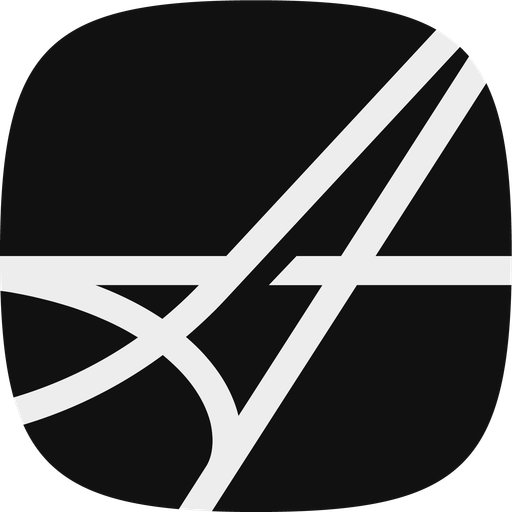
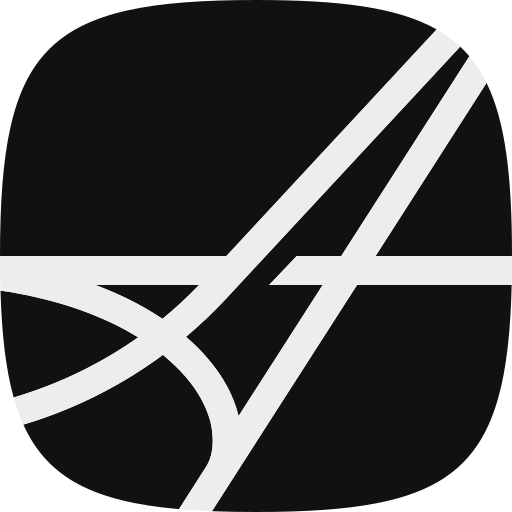
Карточки магазина блоком, новая аватарка, фавиконы-сквирклы
- карточка товара целиком ссылка с подсветкой, «Купить» работает поверх
- аватарка из «logo-avatar RGB.pdf», вписана в круг
- фавиконы из «logo-favicon-small.svg»: SVG, ico, PNG, Apple и Android

diff --git a/src/components/AvatarLogo.tsx b/src/components/AvatarLogo.tsx
@@ -1,6 +1,7 @@
-// Round Atrial avatar: #111111 disc, #ededed wordmark, yellow tittle over «i».
-// Positions come from «Atrial-logo-avatar RGB.pdf»; the same picture is saved
-// as src/images/atrial-avatar.svg.
+// Round Atrial avatar: #111111 disc, #ededed wordmark, #ffcc00 tittle over «i».
+// From «logo-avatar RGB.pdf»: the square background is replaced with the circle
+// inscribed in it, so the logo keeps its centring. Also saved as
+// src/images/atrial-avatar.svg.
 export function AvatarLogo({ className }: { className?: string }) {
   return (
     <svg
@@ -12,13 +13,15 @@ export function AvatarLogo({ className }: { className?: string }) {
       <circle cx="512" cy="512" r="512" fill="#111111" />
       <path
         fill="#ededed"
-        fillRule="evenodd"
-        d="M762.049 556.736L711.909 556.726C702.149 556.726 692.921 557.792 684.476 559.893L687.813 572.996C695.308 571.598 705.173 570.685 713.796 570.685L736.49 570.685L730.969 579.27L706.426 579.27C693.778 579.27 684.516 580.712 676.188 586.988C672.256 589.954 668.875 593.613 666.136 597.866L662.828 603.009L619.185 603.009C616.693 603.009 615.508 601.308 615.115 600.575C614.719 599.842 613.951 597.921 615.323 595.837L640.484 556.736L623.88 556.736L603.662 588.16C600.737 592.603 599.9 597.996 601.193 603.009L531.507 603.009C526.773 603.009 524.727 598.71 523.851 595.45C538.001 591.591 552.316 585.301 562.365 569.145L570.087 556.736L507.98 556.736C500.106 556.736 492.405 560.536 487.879 566.658L464.525 603.009L427.188 603.009C412.386 603.009 415.081 594.934 416.488 592.825L450.393 540.134L617.96 540.134L626.941 526.176L459.374 526.176L477.618 497.824L461.014 497.824L442.772 526.176L393.374 526.176L508.182 347.105L487.658 347.105L321.437 526.183L233.44 526.183L215.678 543.37C240.244 547.36 261.926 554.903 278.935 565.423C244.719 589.509 203.501 602.837 161.127 602.837L154.218 602.837L139.826 616.762L161.127 616.762C208.02 616.762 253.555 601.435 290.856 573.925C294.927 577.274 298.632 580.823 301.865 584.597C310.972 595.231 315.447 606.609 314.778 616.968L335.165 616.968L384.425 540.134L433.791 540.134L404.858 585.101C404.046 586.285 397.082 596.941 402.127 606.515C405.784 613.451 414.216 616.966 427.188 616.966L474.098 616.966L479.475 611.585C487.458 604.076 498.501 601.347 510.28 598.691C512.48 606.952 518.523 616.966 531.507 616.966L875.24 616.966L884.174 603.009L809.849 603.009C807.357 603.009 806.172 601.308 805.778 600.575C805.384 599.842 804.617 597.921 806.161 595.561L868.713 497.824L852.148 497.824L794.33 588.16C791.403 592.6 790.565 597.995 791.857 603.009L729.259 603.009C732.715 600.618 735.552 597.934 737.47 594.956L749.13 576.825ZM508.864 584.696C520.632 582.054 531.944 579.528 541.014 572.446C541.792 571.859 542.531 571.262 543.16 570.693L507.98 570.693C504.691 570.693 501.269 572.277 499.335 574.664L489.565 589.894C495.429 587.913 502.887 586.037 508.864 584.696M805.966 526.176L676.752 526.176L667.77 540.134L797.032 540.134ZM692.316 603.009C705.622 603.009 715.778 599.128 722.603 591.487L707.796 591.487C698.25 591.487 690.445 593.725 684.594 598.134C682.752 599.525 681.094 601.165 679.625 603.009L692.316 603.009M458.077 399.45L321.159 546.96C315.14 553.445 308.716 559.473 302.01 565.129C305.813 568.422 309.32 571.883 312.445 575.534C320.036 584.399 325.046 593.891 327.353 603.35L367.883 540.134L342.042 540.134L355.337 526.176L376.831 526.176ZM290.613 556.488C296.833 551.404 302.765 545.941 308.379 540.109L258.108 540.109C270.173 544.588 281.09 550.084 290.613 556.488"
+        d="M692.316 603.009L679.625 603.009C681.094 601.165 682.752 599.525 684.594 598.134C690.445 593.725 698.25 591.487 707.796 591.487L722.603 591.487C715.778 599.128 705.622 603.009 692.316 603.009M508.864 584.696C502.887 586.037 495.429 587.913 489.565 589.894L499.335 574.664C501.269 572.277 504.691 570.693 507.98 570.693L543.161 570.693C542.532 571.262 541.792 571.859 541.015 572.446C531.944 579.528 520.632 582.054 508.864 584.696M376.831 526.176L355.338 526.176L342.043 540.134L367.884 540.134L327.353 603.35C325.046 593.891 320.037 584.399 312.445 575.534C309.321 571.883 305.813 568.422 302.011 565.129C308.716 559.473 315.141 553.445 321.16 546.96L458.077 399.45ZM290.614 556.488C281.091 550.084 270.173 544.588 258.109 540.109L308.379 540.109C302.766 545.941 296.834 551.404 290.614 556.488M809.849 603.009C807.357 603.009 806.172 601.308 805.778 600.575C805.384 599.842 804.617 597.921 806.162 595.561L868.714 497.824L852.148 497.824L794.33 588.16C791.403 592.6 790.565 597.995 791.857 603.009L729.259 603.009C732.715 600.618 735.552 597.934 737.47 594.956L749.13 576.825L762.049 556.736L711.91 556.726C702.15 556.726 692.922 557.792 684.477 559.893L687.814 572.996C695.309 571.598 705.174 570.685 713.797 570.685L736.49 570.685L730.969 579.27L706.426 579.27C693.778 579.27 684.516 580.712 676.188 586.988C672.256 589.954 668.875 593.613 666.136 597.866L662.828 603.009L619.185 603.009C616.693 603.009 615.508 601.308 615.115 600.575C614.719 599.842 613.951 597.921 615.323 595.837L640.484 556.736L623.881 556.736L603.662 588.16C600.737 592.603 599.9 597.996 601.193 603.009L531.507 603.009C526.773 603.009 524.727 598.71 523.851 595.45C538.001 591.591 552.316 585.301 562.365 569.145L570.087 556.736L507.98 556.736C500.106 556.736 492.405 560.536 487.879 566.658L464.525 603.009L427.188 603.009C412.386 603.009 415.082 594.934 416.489 592.825L450.393 540.134L617.96 540.134L626.941 526.176L459.374 526.176L477.618 497.824L461.014 497.824L442.772 526.176L393.375 526.176L508.182 347.105L487.658 347.105L321.438 526.183L233.441 526.183L215.678 543.37C240.245 547.36 261.927 554.903 278.936 565.423C244.719 589.509 203.502 602.837 161.127 602.837L154.218 602.837L139.826 616.762L161.127 616.762C208.02 616.762 253.556 601.435 290.857 573.925C294.928 577.274 298.633 580.823 301.866 584.597C310.973 595.231 315.448 606.609 314.779 616.968L335.166 616.968L384.425 540.134L433.791 540.134L404.858 585.101C404.047 586.285 397.082 596.941 402.127 606.515C405.784 613.451 414.216 616.966 427.188 616.966L474.098 616.966L479.475 611.585C487.458 604.076 498.501 601.347 510.28 598.691C512.48 606.952 518.523 616.966 531.507 616.966L875.24 616.966L884.174 603.009Z"
       />
       <path
-        fill="#ffcc02"
-        fillRule="evenodd"
-        d="M631.893 544.284L648.104 519.088L664.71 519.088L648.497 544.284Z"
+        fill="#ededed"
+        d="M805.967 526.176L676.752 526.176L667.77 540.134L797.033 540.134Z"
+      />
+      <path
+        fill="#ffcc00"
+        d="M664.71 519.088L648.104 519.088L631.893 544.284L648.497 544.284Z"
       />
     </svg>
   )

diff --git a/src/app/market/page.tsx b/src/app/market/page.tsx
@@ -1,52 +1,49 @@
 import Image from 'next/image'
-import Link from 'next/link'
 import { PhotoIcon } from '@heroicons/react/24/outline'
 
 import { BuyButton } from '@/components/BuyButton'
+import {
+  ContentCard,
+  ContentCardDescription,
+  ContentCardTitle,
+} from '@/components/ContentCard'
 import { SimpleLayout } from '@/components/SimpleLayout'
 import { createPageMetadata } from '@/lib/metadata'
 import { formatPrice, getAllProducts, type Product } from '@/lib/products'
 
+// Same card as on /projects: the whole card is one link with a hover
+// highlight; the buy button sits above that link layer and works on its own.
 function ProductCard({ product }: { product: Product }) {
   return (
-    <li className="group flex gap-4">
-      <Link
-        href={product.href}
-        tabIndex={-1}
-        aria-hidden
-        className="relative size-28 flex-none overflow-hidden rounded-xl bg-muted sm:size-32"
-      >
+    <ContentCard as="li" className="h-full flex-row gap-4">
+      <div className="relative z-10 size-28 flex-none overflow-hidden rounded-xl bg-muted sm:size-32">
         {product.image ? (
           <Image
             src={product.image}
             alt=""
             fill
             sizes="8rem"
-            className="object-cover transition duration-300 group-hover:scale-105"
+            className="object-cover"
           />
         ) : (
           <PhotoIcon className="absolute inset-0 m-auto size-8 text-muted-foreground" />
         )}
-      </Link>
-      <div className="flex min-w-0 flex-1 flex-col items-start">
-        <h2 className="text-base font-semibold tracking-tight text-foreground">
-          <Link href={product.href} className="transition hover:text-accent">
-            {product.name}
-          </Link>
-        </h2>
-        <p className="mt-1 line-clamp-3 text-sm text-pretty text-muted-foreground">
+      </div>
+      <div className="flex min-w-0 flex-1 flex-col items-start self-stretch">
+        <ContentCardTitle href={product.href}>{product.name}</ContentCardTitle>
+        <ContentCardDescription className="mt-1 line-clamp-3 text-pretty">
           {product.description}
-        </p>
-        <p className="mt-auto pt-3 text-sm font-semibold text-foreground">
+        </ContentCardDescription>
+        <p className="relative z-10 mt-auto pt-3 text-sm font-semibold text-foreground">
           {formatPrice(product.price)}
         </p>
         <BuyButton
           productName={product.name}
           available={product.available}
-          className="mt-3"
+          className="relative z-30 mt-3"
         />
       </div>
-    </li>
+    </ContentCard>
   )
 }
 

diff --git a/README.md b/README.md
@@ -22,7 +22,7 @@
 | Название и заголовок сайта, соцсети, куда ведёт «Купить» (Telegram и ВК) | [src/lib/site.ts](src/lib/site.ts) |
 | Главная: текст под заголовком, блок «Где купить» | [src/app/page.tsx](src/app/page.tsx) |
 | Фото в карусели на главной | [src/components/PhotoGallery.tsx](src/components/PhotoGallery.tsx), файлы в `src/images/photos/` |
-| Логотип в шапке (SVG, цвет меняется с темой сам) | [src/components/Logo.tsx](src/components/Logo.tsx) |
+| Аватарка-логотип в шапке | [src/components/AvatarLogo.tsx](src/components/AvatarLogo.tsx), SVG — `src/images/atrial-avatar.svg` |
 | Обо мне: текст | [src/app/about/page.tsx](src/app/about/page.tsx) |
 | Обо мне: портрет | [src/app/about/Portrait.tsx](src/app/about/Portrait.tsx), файл `src/images/photos/me.jpg` |
 | Блог: статьи и видео | `src/app/blog/<адрес>/page.mdx` → `/blog/<адрес>` |
@@ -67,12 +67,13 @@ export const post = {
 
 ## Иконки
 
-Все иконки делаются из одного квадратного знака (сейчас это `src/images/avatar.png`). При замене логотипа нужно заменить все файлы из таблицы; имена и размеры должны остаться такими же.
+Все иконки делаются из одного знака-сквиркла (исходник — `src/images/favicon-mark.svg`). При замене логотипа нужно заменить все файлы из таблицы; имена и размеры должны остаться такими же.
 
 | Файл | Размер | Где видно | Требования |
 | --- | --- | --- | --- |
 | `src/app/favicon.ico` | 16×16, 32×32, 48×48 в одном файле | вкладка браузера, закладки, поиск Яндекса и Google | можно с прозрачностью |
-| `src/app/icon.png` | 512×512 | вкладка в современных браузерах | PNG, можно с прозрачностью |
+| `src/app/icon.svg` | вектор | вкладка в современных браузерах, чётко при любом размере | SVG, можно с прозрачностью |
+| `src/app/icon.png` | 512×512 | вкладка, если браузер не понимает SVG | PNG, можно с прозрачностью |
 | `src/app/apple-icon.png` | 180×180 | iPhone и iPad: «На экран „Домой“» | PNG **без прозрачности**: iOS сама скругляет углы, а прозрачные места становятся чёрными |
 | `public/icons/icon-192.png` | 192×192 | Android: ярлык на главном экране | PNG, можно с прозрачностью |
 | `public/icons/icon-512.png` | 512×512 | Android: экран загрузки; превью для соцсетей и RSS | PNG, можно с прозрачностью |
